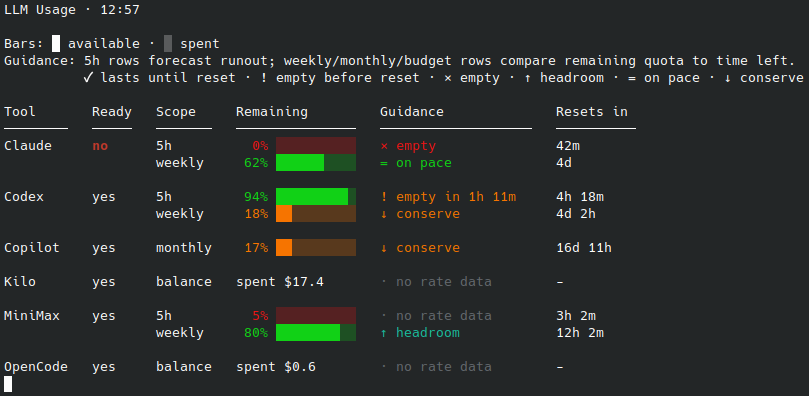
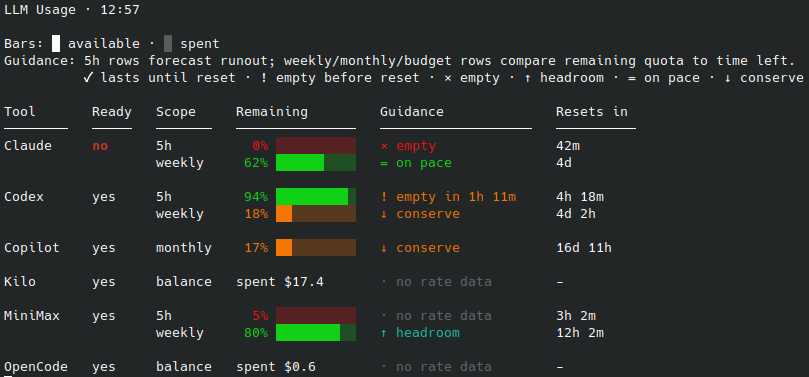
refactor: update provider command arguments for Kilo and OpenCode, improve snapshot handling

diff --git a/tests/test_capacity.py b/tests/test_capacity.py
@@ -100,6 +100,18 @@ def test_decide_unavailable_snapshot() -> None:
     assert d.wait_until is not None
 
 
+def test_decide_unavailable_snapshot_vetoes_even_with_scopes() -> None:
+    snap = _snap(
+        CapacityScope(name="ungated", kind=CapacityKind.UNGATED, label="byok"),
+        available=False,
+        reason="missing-cli",
+    )
+    d = decide(snap, "auto", 1.0, 1.0, 60)
+    assert d.usable is False
+    assert d.reason == "missing-cli"
+    assert [scope.name for scope in d.scopes] == ["ungated"]
+
+
 def test_decide_missing_cli() -> None:
     snap = _snap(
         CapacityScope(name="balance", kind=CapacityKind.BALANCE, remaining_amount=10.0, currency="GBP")

diff --git a/tests/test_coverage_boost.py b/tests/test_coverage_boost.py
@@ -214,6 +214,17 @@ def test_is_undetermined_reason_and_sleep_until(monkeypatch: pytest.MonkeyPatch)
     assert slept == [30]
 
 
+def test_provider_default_argv_kilo_and_opencode_cwd_handling() -> None:
+    attached_kilo = scheduler.SchedulerConfig(tool="kilo", cwd="/tmp/work", attached=True)
+    assert scheduler.provider_default_argv(attached_kilo, "prompt") == ["kilo", "run", "prompt"]
+
+    headless_kilo = scheduler.SchedulerConfig(tool="kilo", cwd="/tmp/work")
+    assert scheduler.provider_default_argv(headless_kilo, "prompt") == ["kilo", "run", "--auto", "prompt"]
+
+    attached_opencode = scheduler.SchedulerConfig(tool="opencode", cwd="/tmp/work", attached=True)
+    assert scheduler.provider_default_argv(attached_opencode, "prompt") == ["opencode"]
+
+
 # --------------------------------------------------------------------------- #
 # ralph_robin: duration parsing
 # --------------------------------------------------------------------------- #

diff --git a/llm_tools/scheduler.py b/llm_tools/scheduler.py
@@ -365,9 +365,9 @@ def provider_default_argv(cfg: SchedulerConfig, prompt: str) -> list[str]:
         if cfg.tool == "claude":
             return ["claude", prompt]
         if cfg.tool == "kilo":
-            return ["kilo", "run", "-C", cfg.cwd, prompt]
+            return ["kilo", "run", prompt]
         if cfg.tool == "opencode":
-            return ["opencode", "-C", cfg.cwd]
+            return ["opencode"]
         if cfg.tool == "minimax":
             return ["mmx"]
         return ["copilot", "-C", cfg.cwd, "-i", prompt]
@@ -378,7 +378,7 @@ def provider_default_argv(cfg: SchedulerConfig, prompt: str) -> list[str]:
             return ["claude", "--print", "--output-format", "stream-json", "--verbose", prompt]
         return ["claude", "--print", prompt]
     if cfg.tool == "kilo":
-        return ["kilo", "run", "--auto", "-C", cfg.cwd, prompt]
+        return ["kilo", "run", "--auto", prompt]
     if cfg.tool == "opencode":
         return ["opencode", "run", "-C", cfg.cwd, prompt]
     if cfg.tool == "minimax":

diff --git a/tests/test_contracts.py b/tests/test_contracts.py
@@ -116,8 +116,9 @@ def test_usage_json_table_statusline_and_cache(env: dict[str, str]) -> None:
     assert "Pace" not in table.stdout
     assert "Pace / Gate" not in table.stdout
     # "opencode" is allowed; the legacy assertion is that the table never
-    # uses the words "open" or "closed" (left over from a removed dial UI).
-    assert "opencode" not in table.stdout or "opencode" in table.stdout
+    # uses the standalone words "open" or "closed" (left over from a
+    # removed dial UI).
+    assert not re.search(r"\bopen\b", table.stdout, re.IGNORECASE)
     assert "closed" not in table.stdout
     assert "Use" not in table.stdout.splitlines()[4]
     hidden = run_cmd(["./llm-usage", "--hide-codex-spark"], env)

diff --git a/llm_tools/capacity.py b/llm_tools/capacity.py
@@ -233,13 +233,13 @@ def decide(
     now = _now(env)
     poll = max(1, int(poll_interval))
 
-    if not snapshot.available and not snapshot.scopes:
+    if not snapshot.available:
         return UsageDecision(
             tool=snapshot.provider,
             usable=False,
             reason=snapshot.reason or "unavailable",
             wait_until=now + poll,
-            scopes=[],
+            scopes=list(snapshot.scopes),
         )
 
     if not cli_present:

diff --git a/tests/test_additional_paths.py b/tests/test_additional_paths.py
@@ -518,6 +518,9 @@ def test_parser_option_coverage(tmp_path: Path) -> None:
     assert scheduler.provider_default_argv(scheduler.SchedulerConfig(tool="claude"), "p") == ["claude", "--print", "p"]
     assert scheduler.provider_default_argv(scheduler.SchedulerConfig(tool="claude", claude_stream_json=True), "p") == ["claude", "--print", "--output-format", "stream-json", "--verbose", "p"]
     assert scheduler.provider_default_argv(scheduler.SchedulerConfig(tool="copilot", cwd="/c", attached=True), "p") == ["copilot", "-C", "/c", "-i", "p"]
+    assert scheduler.provider_default_argv(scheduler.SchedulerConfig(tool="kilo", cwd="/c", attached=True), "p") == ["kilo", "run", "p"]
+    assert scheduler.provider_default_argv(scheduler.SchedulerConfig(tool="kilo", cwd="/c"), "p") == ["kilo", "run", "--auto", "p"]
+    assert scheduler.provider_default_argv(scheduler.SchedulerConfig(tool="opencode", cwd="/c", attached=True), "p") == ["opencode"]
     assert scheduler.scheduler_model_description(scheduler.SchedulerConfig(tool="codex")).startswith("Codex")
     assert scheduler.scheduler_model_description(scheduler.SchedulerConfig(tool="claude")).startswith("Claude")
     assert scheduler.scheduler_model_description(scheduler.SchedulerConfig(tool="copilot")).startswith("GitHub")